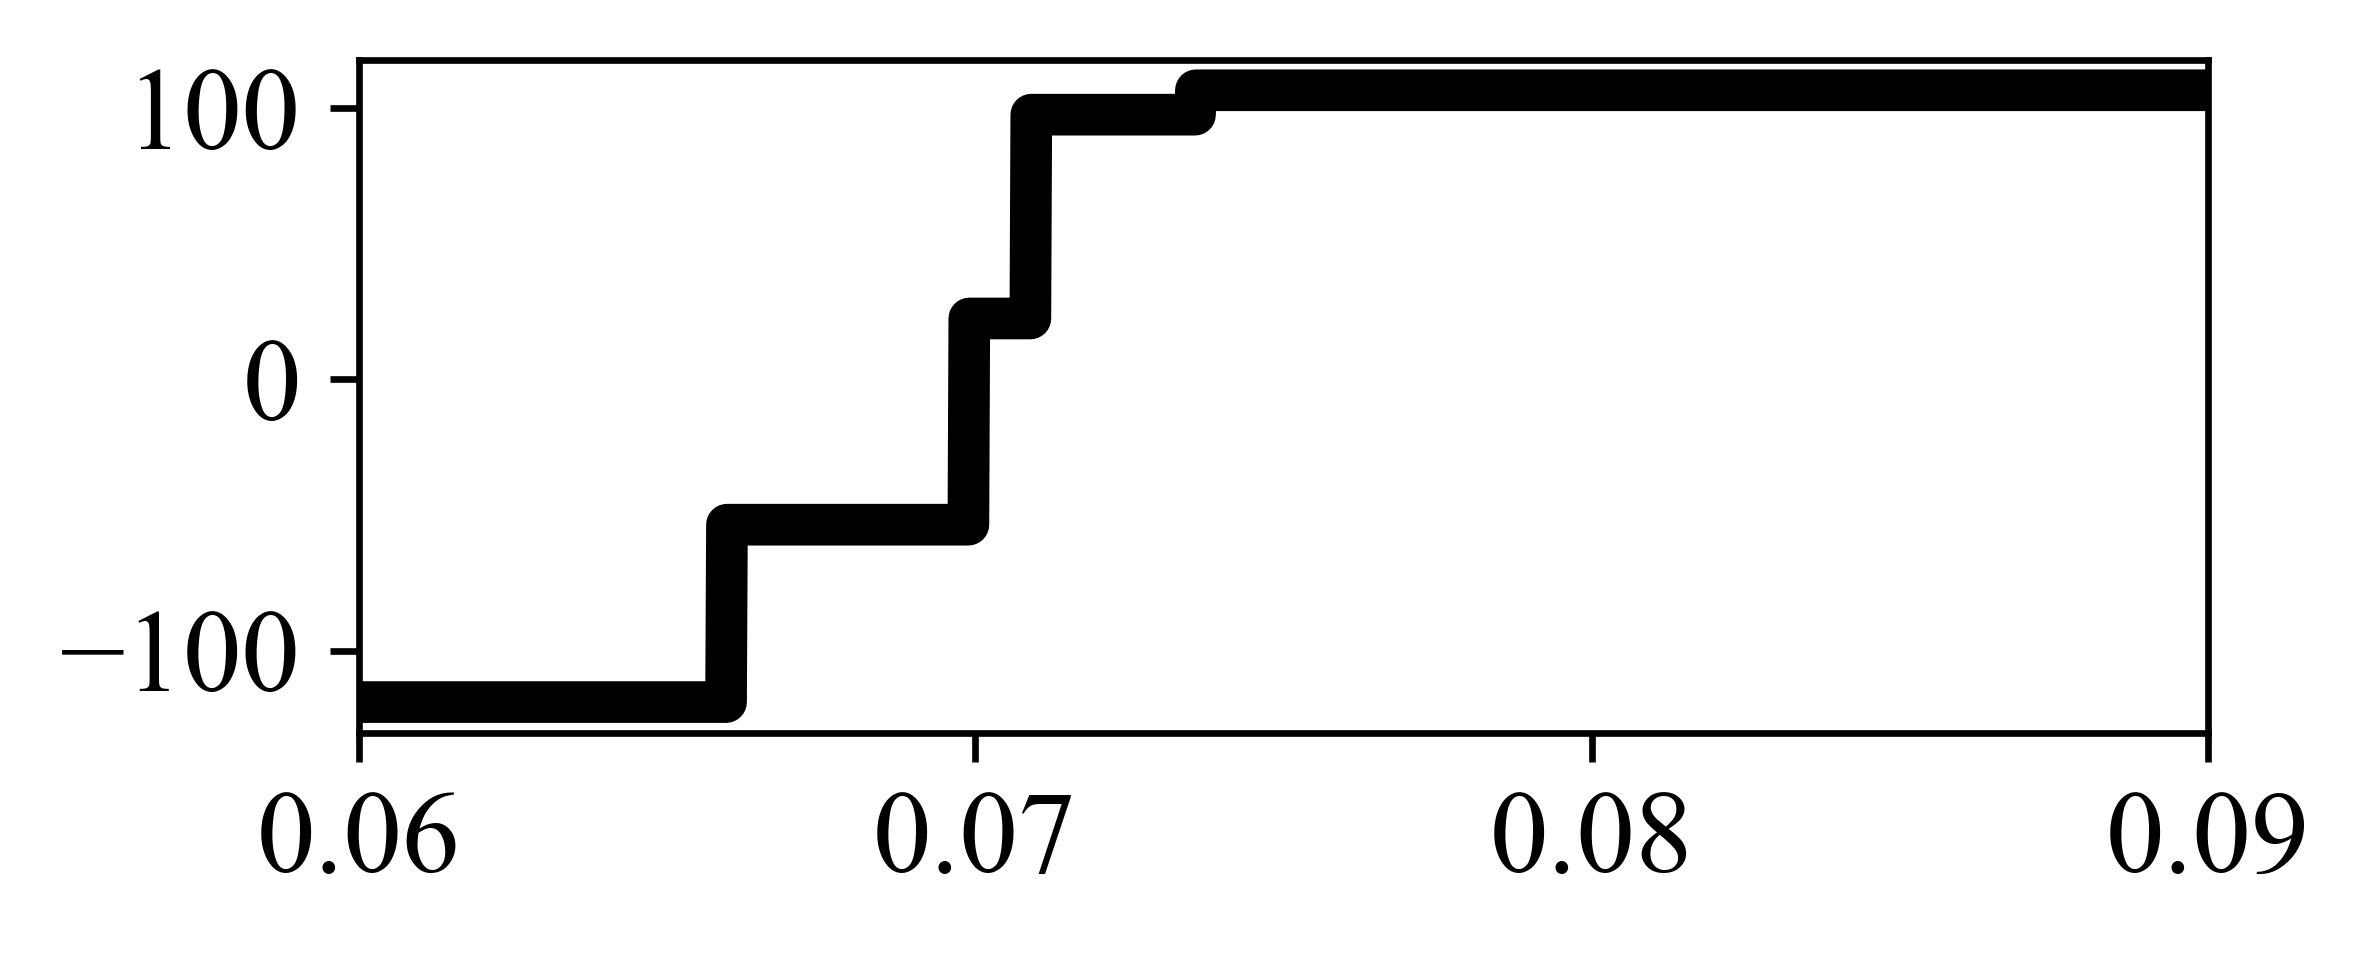
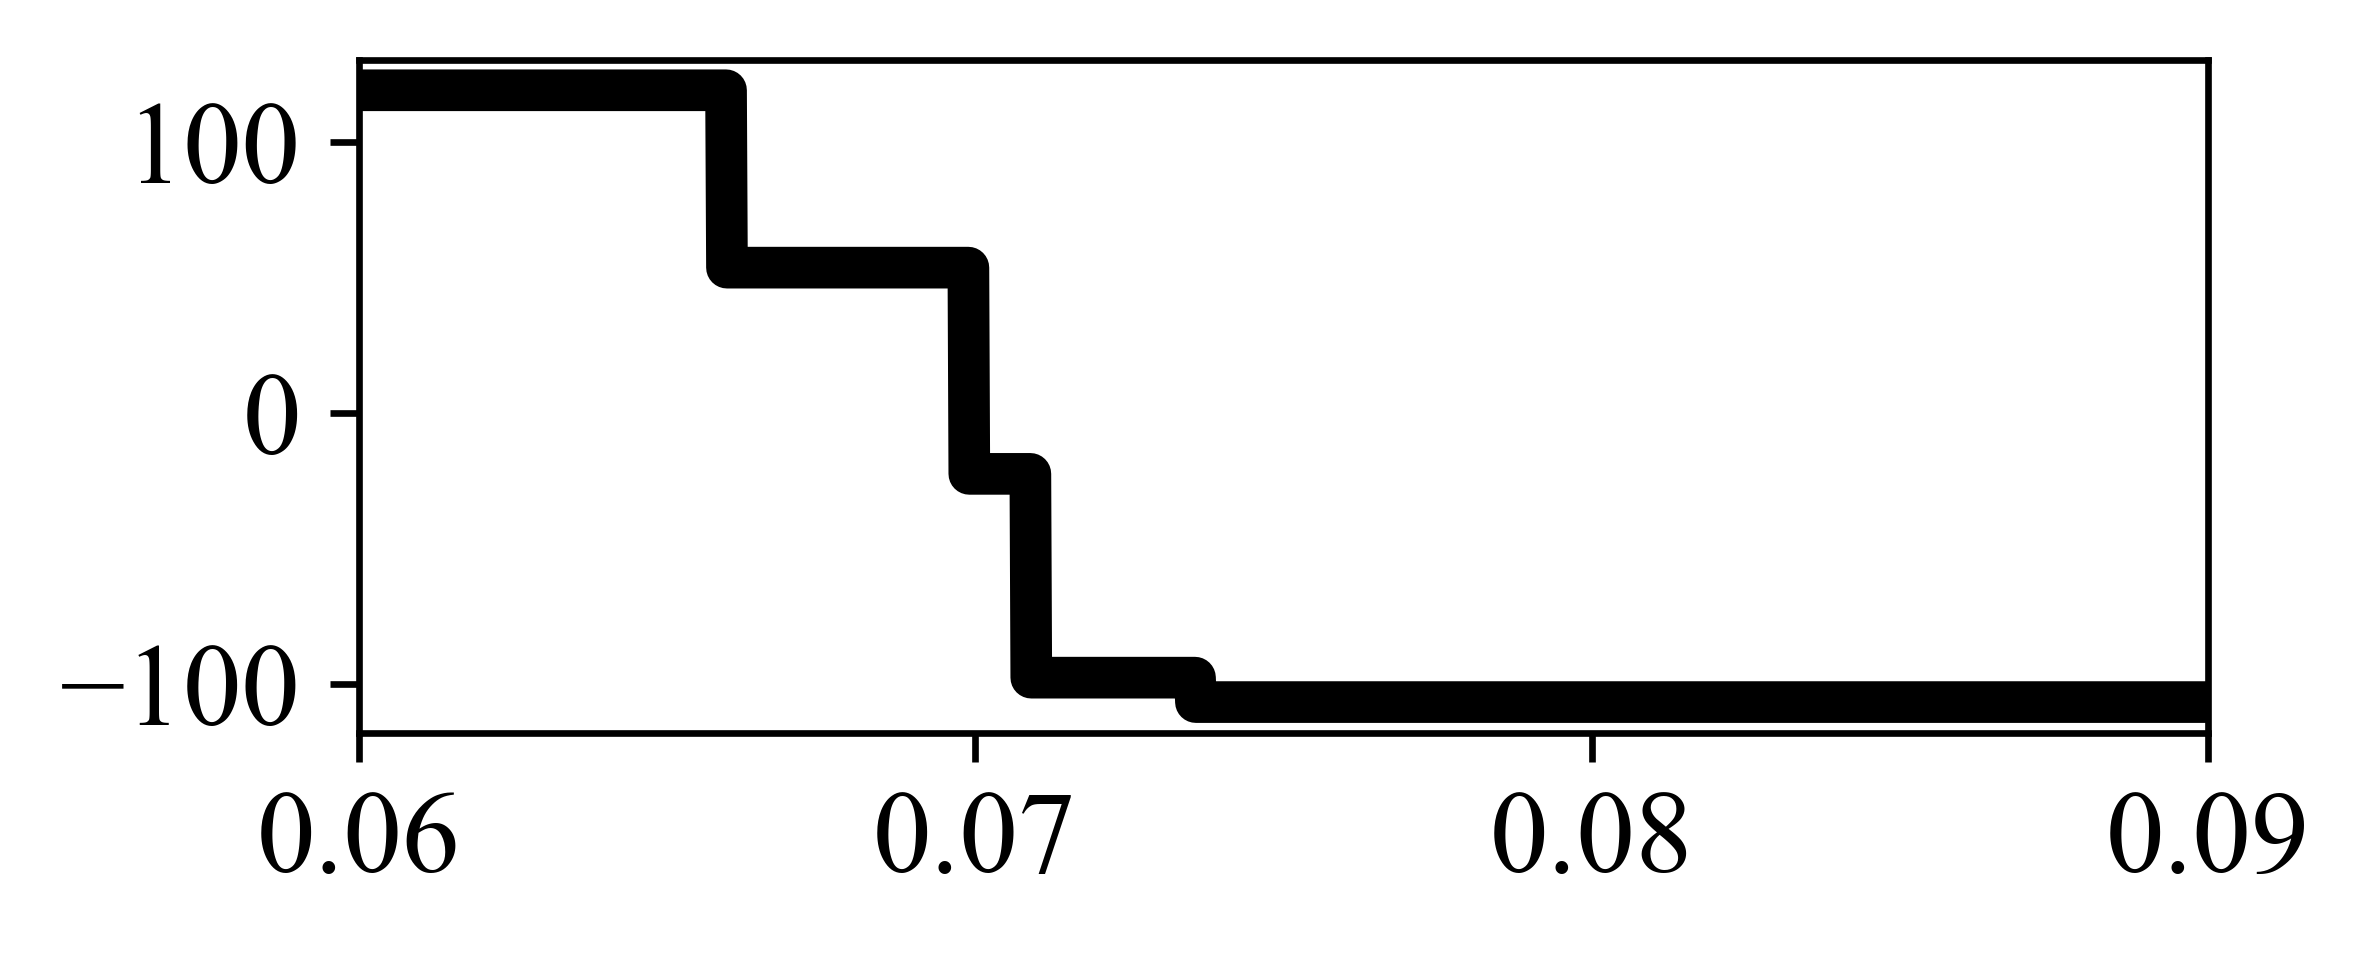
Save_figure_ev

Changed region(s): [[0.0312, 0.4545, 0.9371, 0.7576], [0.0625, 0.0606, 0.9371, 0.3636], [0.0937, 0.3636, 0.1249, 0.4848]]

diff --git a/Figure_Plot/figure_plot_2_3/journalcasestudyFig2andFig3.py b/Figure_Plot/figure_plot_2_3/journalcasestudyFig2andFig3.py
@@ -316,9 +316,11 @@ def Fig2_EV(Nev,pri,eta,index,fleet=None):
     _configure_fig3_style()
     plt.figure(figsize=(10.1 / 2.54, 3.7 / 2.54))
     x=pri0/1000
-    plt.plot(x,Ressum,linewidth=5,color='black')
+    # Convert net battery power to power demand: charging values are positive.
+    plt.plot(x,-Ressum,linewidth=5,color='black')
     plt.xlim(0.06,0.09)
     plt.xticks([0.06, 0.07, 0.08, 0.09])
+
     plt.savefig("Figs/"+index+".png",bbox_inches='tight',  transparent=True, dpi=600)
     return TArrset
 
